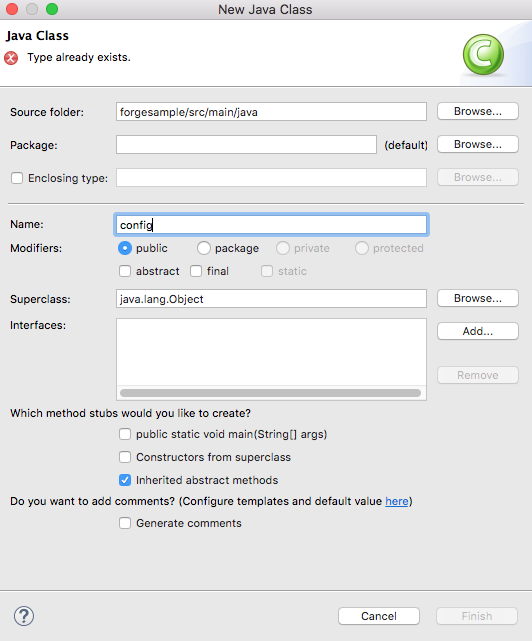
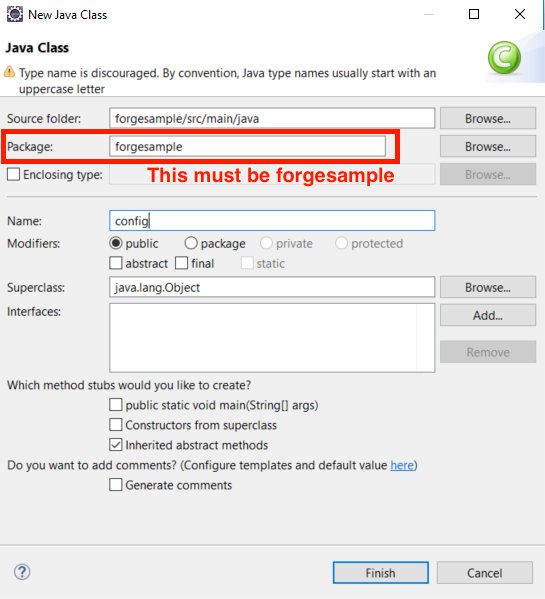
reviewed

Changed region(s): [[0.0, 0.0, 1.0, 0.8414], [0.0, 0.9015, 0.9925, 0.9917], [0.0, 0.4508, 0.1504, 0.5409]]

diff --git a/docs/modelderivative/translate/java.md b/docs/modelderivative/translate/java.md
@@ -7,6 +7,8 @@ To translate a file we just need one endpoint.
 Create a new Java Class named `/src/main/java/modelderivative.java` with the following content. 
 
 ```java
+package forgesample;
+
 import java.io.BufferedReader;
 import java.io.IOException;
 import java.util.Arrays;
@@ -100,7 +102,7 @@ Explictly expose the endpoint in `/web/WEB-INF/web.xml`, add the following conte
 ```xml
 <servlet>
     <servlet-name>modelderivative</servlet-name>
-    <servlet-class>modelderivative</servlet-class>
+    <servlet-class>forgesample.modelderivative</servlet-class>
 </servlet>
 
 <servlet-mapping>
@@ -116,49 +118,45 @@ At the end your `/web/WEB-INF/web.xml` should look like this:
 ```xml
 <?xml version="1.0" encoding="UTF-8"?>
 <web-app xmlns="http://xmlns.jcp.org/xml/ns/javaee"
-         xmlns:xsi="http://www.w3.org/2001/XMLSchema-instance"
-         xsi:schemaLocation="http://xmlns.jcp.org/xml/ns/javaee http://xmlns.jcp.org/xml/ns/javaee/web-app_3_1.xsd"
-         version="3.1">
-         
-    <servlet>
-        <servlet-name>oauthtoken</servlet-name>
-        <servlet-class>oauthtoken</servlet-class>
-    </servlet>
+	xmlns:xsi="http://www.w3.org/2001/XMLSchema-instance"
+	xsi:schemaLocation="http://xmlns.jcp.org/xml/ns/javaee http://xmlns.jcp.org/xml/ns/javaee/web-app_3_1.xsd"
+	version="3.1">
 
-    <servlet-mapping>
-        <servlet-name>oauthtoken</servlet-name>
-        <url-pattern>/api/forge/oauth/token</url-pattern>
-    </servlet-mapping>
-    
-    <servlet>
-            <servlet-name>oss</servlet-name>
-            <servlet-class>oss</servlet-class>
-    </servlet>
+	<servlet>
+		<servlet-name>oauthtoken</servlet-name>
+		<servlet-class>forgesample.oauthtoken</servlet-class>
+	</servlet>
+	<servlet-mapping>
+		<servlet-name>oauthtoken</servlet-name>
+		<url-pattern>/api/forge/oauth/token</url-pattern>
+	</servlet-mapping>
 
-    <servlet-mapping>
-            <servlet-name>oss</servlet-name>
-            <url-pattern>/api/forge/oss/buckets</url-pattern>
-    </servlet-mapping>
+	<servlet>
+		<servlet-name>oss</servlet-name>
+		<servlet-class>forgesample.oss</servlet-class>
+	</servlet>
+	<servlet-mapping>
+		<servlet-name>oss</servlet-name>
+		<url-pattern>/api/forge/oss/buckets</url-pattern>
+	</servlet-mapping>
+	<servlet>
+		<servlet-name>ossuploads</servlet-name>
+		<servlet-class>forgesample.ossuploads</servlet-class>
+	</servlet>
+	<servlet-mapping>
+		<servlet-name>ossuploads</servlet-name>
+		<url-pattern>/api/forge/oss/objects</url-pattern>
+	</servlet-mapping>
 
-    <servlet>
-            <servlet-name>ossuploads</servlet-name>
-            <servlet-class>ossuploads</servlet-class>
-    </servlet>
+	<servlet>
+		<servlet-name>modelderivative</servlet-name>
+		<servlet-class>forgesample.modelderivative</servlet-class>
+	</servlet>
+	<servlet-mapping>
+		<servlet-name>modelderivative</servlet-name>
+		<url-pattern>/api/forge/modelderivative/jobs</url-pattern>
+	</servlet-mapping>
 
-    <servlet-mapping>
-            <servlet-name>ossuploads</servlet-name>
-            <url-pattern>/api/forge/oss/objects</url-pattern>
-    </servlet-mapping>
-    
-    <servlet>
-            <servlet-name>modelderivative</servlet-name>
-            <servlet-class>modelderivative</servlet-class>
-    </servlet>
-
-    <servlet-mapping>
-            <servlet-name>modelderivative</servlet-name>
-            <url-pattern>/api/forge/modelderivative/jobs</url-pattern>
-    </servlet-mapping>
 </web-app>
 ```
 

diff --git a/docs/oauth/2legged/java.md b/docs/oauth/2legged/java.md
@@ -7,6 +7,8 @@ For a basic *OAuth* implementation we need 2 files.
 Create a new **Java Class** named `/src/main/java/oauth.java` and copy the following content. This will request the access token from Forge. This will be reused on other parts of this tutorial.
 
 ```java
+package forgesample;
+
 import java.util.ArrayList;
 import java.util.HashMap;
 import java.util.Map;
@@ -75,6 +77,8 @@ To avoid getting a new access token for each end-user request, which adds unnece
 Now create a `/src/main/java/oauthtoken.java` and copy the following content. This file takes care of creating the endpoint router.  
 
 ```java
+package forgesample;
+
 import org.codehaus.jettison.json.JSONObject;
 import org.joda.time.DateTime;
 
@@ -137,18 +141,25 @@ public class oauthtoken extends HttpServlet {
 
 Note the `@WebServlet` annotation to make the class `oauthtoken` as web service by [WebServlet](http://blog.caucho.com/2009/10/06/servlet-30-tutorial-weblistener-webservlet-webfilter-and-webinitparam/). 
 
-Finally expose the endpoint in `src/webapp/WEB-INF/web.xml`, add the following content before `</web-app>`:
+Finally expose the endpoint in `src/webapp/WEB-INF/web.xml`, replace the existing content with:
 
 ```xml
-<servlet>
-    <servlet-name>oauthtoken</servlet-name>
-    <servlet-class>oauthtoken</servlet-class>
-</servlet>
+<?xml version="1.0" encoding="UTF-8"?>
+<web-app xmlns="http://xmlns.jcp.org/xml/ns/javaee"
+	xmlns:xsi="http://www.w3.org/2001/XMLSchema-instance"
+	xsi:schemaLocation="http://xmlns.jcp.org/xml/ns/javaee http://xmlns.jcp.org/xml/ns/javaee/web-app_3_1.xsd"
+	version="3.1">
 
-<servlet-mapping>
-    <servlet-name>oauthtoken</servlet-name>
-    <url-pattern>/api/forge/oauth/token</url-pattern>
-</servlet-mapping>
+	<servlet>
+		<servlet-name>oauthtoken</servlet-name>
+		<servlet-class>forgesample.oauthtoken</servlet-class>
+	</servlet>
+	<servlet-mapping>
+		<servlet-name>oauthtoken</servlet-name>
+		<url-pattern>/api/forge/oauth/token</url-pattern>
+	</servlet-mapping>
+
+</web-app>
 ```
 
 Next: [Upload file to OSS](/datamanagement/oss/)

diff --git a/docs/environment/setup/java.md b/docs/environment/setup/java.md
@@ -35,7 +35,7 @@ Open the `pom.xml` file (via **Project Explorer**), copy & paste the content bel
   xsi:schemaLocation="http://maven.apache.org/POM/4.0.0 http://maven.apache.org/maven-v4_0_0.xsd">
   <modelVersion>4.0.0</modelVersion>
   <groupId>com.mycompany</groupId>
-  <artifactId>ForgeSample</artifactId>
+  <artifactId>forgesample</artifactId>
   <packaging>war</packaging>
   <version>0.0.1-SNAPSHOT</version>
   <name>ForgeSample Maven Webapp</name>
@@ -45,7 +45,7 @@ Open the `pom.xml` file (via **Project Explorer**), copy & paste the content bel
         <dependency>
             <groupId>com.autodesk</groupId>
             <artifactId>com-autodesk-client</artifactId>
-            <version>1.0.0</version>
+            <version>1.0.1</version>
         </dependency>
         <dependency>
             <groupId>com.sun.jersey</groupId>
@@ -271,13 +271,15 @@ Right-click **src/main** folder, then **New** >> **Folder**, name it **java**.
 
 To create a new class file, right-click on the project and select **New** >> **Class**. Let's create the **config.java** file firstly.
 
-Make sure the **Source Folder** is set to **ForgeSample/src/main/java** and the package is set to default (empty)
+!> Make sure the **Source Folder** is set to **ForgeSample/src/main/java** and the package is set to `forgesample` (our project name).
 
 ![](_media/java/Eclipse_maven_java_class.png)
 
 Copy & paste the following content to the `config.java` file.
 
 ```java
+package forgesample;
+
 import java.util.ArrayList;
 
 public class config {

diff --git a/docs/viewer/java.md b/docs/viewer/java.md
@@ -1,18 +1,8 @@
 # Client-side files (Java)
 
-Our Java server is configured to serve files from `/forgesample` but we want to change it to serve from `/` folder. Let's fix that with the following steps:
+Our Java server is configured to serve files from `/forgesample` but we want to change it to serve from `/` folder. Let's fix by setting the path to nothing in the Eclipse web modules, which enables access the project without any path component in the URL (i.e. ROOT). You can reach the web modules edit dialog by double clicking on it.
 
-Setting the path to nothing in the Eclipse web modules edit dialog enable access the project without any path component in the URL (i.e. ROOT)
-
-You can reach the web modules edit dialog by double clicking on it.
-
-![](_media/java/Eclipse_server_root.png)
-
-
-![](_media/java/Eclipse_web_module.png)
-
-
-![](_media/java/Eclipse_root_empty.png)
+![](_media/java/eclipse_webmodules_path.gif)
 
 Java EE web app usually generates an entry file `.jsp` instead `.html`, but for this tutorial let's just use `.html` for simplicity.
 
@@ -20,6 +10,6 @@ Java EE web app usually generates an entry file `.jsp` instead `.html`, but for 
 - `/js`: `.js`
 - `/css`: `.css`
 
-The image below show it (after creating files on the next section)
+Create these folders under `webapp` folder, the image below show it (after creating files on the next section)
 
 ![](_media/java/Eclipse_client_side.png)

diff --git a/docs/datamanagement/oss/java.md b/docs/datamanagement/oss/java.md
@@ -12,6 +12,8 @@ Create a new Java Class named `/src/main/java/oss.java` with the following conte
 
 
 ```java
+package forgesample;
+
 import java.io.*;
 
 import javax.servlet.ServletException;
@@ -187,6 +189,8 @@ As we plan to suppor the [jsTree](https://www.jstree.com/) library, our **GET os
 Create a `/src/main/ossuploads.java` file with the following content. This file handles uploading file. The workflow gets the file stream and uploads to Forge.
 
 ```java
+package forgesample;
+
 import java.io.*;
 import java.util.Iterator;
 import java.util.List;
@@ -330,7 +334,7 @@ Now explictly expose the endpoint in `/web/WEB-INF/web.xml`, add the following c
 ```xml
 <servlet>
     <servlet-name>oss</servlet-name>
-    <servlet-class>oss</servlet-class>
+    <servlet-class>forgesample.oss</servlet-class>
 </servlet>
 <servlet-mapping>
     <servlet-name>oss</servlet-name>
@@ -338,7 +342,7 @@ Now explictly expose the endpoint in `/web/WEB-INF/web.xml`, add the following c
 </servlet-mapping>
 <servlet>
     <servlet-name>ossuploads</servlet-name>
-    <servlet-class>ossuploads</servlet-class>
+    <servlet-class>forgesample.ossuploads</servlet-class>
 </servlet>
 <servlet-mapping>
     <servlet-name>ossuploads</servlet-name>

diff --git a/docs/environment/rundebug/java.md b/docs/environment/rundebug/java.md
@@ -1,18 +1,14 @@
 # Running & Debugging (Java)
 
-We will need to set our ENV Variables for both **FORGE_CLIENT_ID** and **FORGE_CLIENT_SECRET**
+We will need to set our ENV Variables for both **FORGE_CLIENT_ID** and **FORGE_CLIENT_SECRET**.
 
-Make sure your Tomcat Server is not running and head over to menu **Run** and select **Run Configurations...**. 
-
- ![](_media/java/Eclipse_setup_server-env-vars.png) 
-
- With the Tomcat server selected, go ahead and select the Environment tab and select **New** to add them. We can keep the default settings.
+Make sure your Tomcat Server is NOT running and head over to menu **Run** and select **Run Configurations...**. Select the Tomcat server on the left tree, go ahead and select the **Environment** tab and click **New** to add a variable. We can keep the default settings. 
 
  ![](_media/java/Eclipse_new_env_var.png) 
 
-Finally, click **Apply** on the right bottom and close the dialog.
+ > Make sure to add both **FORGE_CLIENT_ID** and **FORGE_CLIENT_SECRET**.
 
-![](_media/java/Eclipse_new_env_var.png)
+Finally, click **Apply** on the right bottom and close the dialog.
 
 Now, we can Start our Tomcat server 
 
